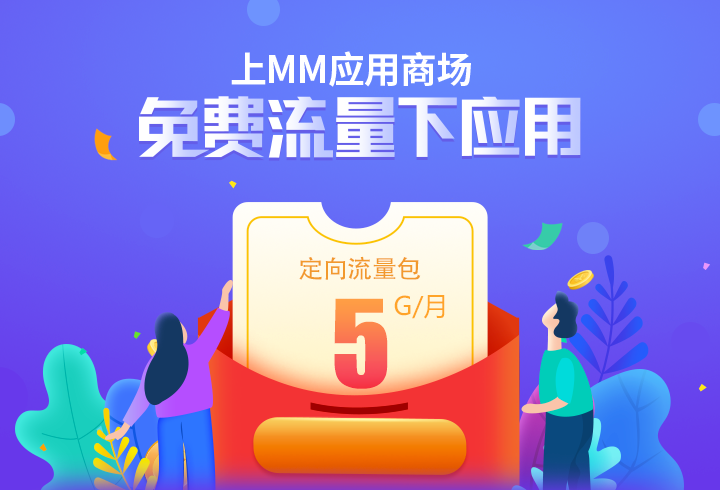
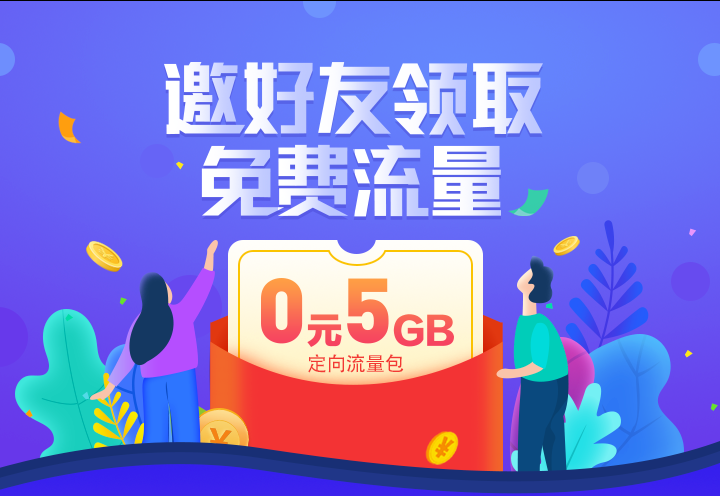
转盘占坑

diff --git a/src/share.html b/src/share.html
@@ -10,28 +10,22 @@
 
 	<body class="home-bg">
 		<div class="banner">
-			<img src="./assets/img/home-share-bg.png" class="banner">
-			<a class="lklq-btn share-page"></a>
+			<img src="./assets/img/home-bg.png" class="banner">
 		</div>
+		<div class="zp-wrap">
+			<div class="line-text-bg"></div>
+		<div class="inner-wrap"></div>
+	</div>
 		<div class="main-settion">
-			<div class="card-pannel share-page">
-				<div class="mian-liu share-page">
-					<img src="./assets/img/mm-app.png" alt="">
-					<div>MM应用商场</div>
-				</div>
-				<div class="share-wrap">
-					<div class="share-btn share-page">
-						
-					</div>
-					<div class="text">
-						定向流量包详细适用范围见下方活动规则
-					</div>
+			<div class="card-pannel">
+			<div class="header">
+				<div class="icon-text">
+					<img src="./assets/img/liping-huizhang-icon.png" alt="" class="huizhang">
+					<span class="info">分享活动兑换奖品</span>
 				</div>
 			</div>
-			<div class="share-friened">
-				<div class="header">
-					<div class="title">邀好友领免流量包获大奖</div>
-				</div>
+			<div class="my-content">
+				<div class="share-friened">
 				<div class="share-item-box">
 					<div class="share-item">
 						<img class="app-icon" src="./assets/img/youku-icon.png">
@@ -47,61 +41,13 @@
 					</div>
 				</div>
 			</div>
+			</div>		
+		
+		
+			
 		</div>
-		<div class="share-rule-wrap">
-			<div class="setion">
-				<div class="title"><span class="text">活动说明</span></div>
-				<div class="content">
-					1、活动时间：即日起-2019年6月30日
-					<br />
-					<br /> 2、活动对象：中国移动安卓手机MM应用商城受邀目标用户
-					<br />
-					<br /> 3、免流业务覆盖区域全国各省用户均可领取（港澳台除外） 
-					<br />
-					<br /> 4、活动说明：
-					<br /> （1）用户在活动页面完成领取MM定向流量包后，每月最高可节省5GB流量，使用定向流量时请保证订购产品手机号码与本机手机号码一致。 
-					<br />（2）本次活动流量包为MM任我装0元5GB定向流量包，资费优惠为0元5GB/月，活动期内每个用户仅可订购一次。产品订购当月立即生效，次月自动续订，有效期为6个月，6个月到期后自动失效。订购当月不足一周期按一周期算。产品流量不结转、不能共享、不能转赠。 
-					<br />（3）每位用户仅可参加一次本优惠活动；退订后无法再参加此活动。 
-					<br />
-					<br /> 5、 MM任我装定向流量包开通成功请以短信通知为准。
-					<br />
-					<br /> 6、账单展示规则与其他定向流量包产品一致，详情请查看当地中国移动网上营业厅。
-					<br /> 7、本页面下载的MM客户端不在免流范围内，需要消耗用户流量，请用户注意流量消耗情况。
-
-				</div>
-
+		<div class="do-active">马上参加</div>
 			</div>
-
-			<div class="setion">
-				<div class="title"><span class="text">免流范围</span></div>
-				<div class="content">
-					1、MM任我装流量包适用范围：
-					<br /> 飞闻客户端、MM导航、MM应用商场客户端、移动精选客户端, 扫码助手等。使用上述产品时，应用游戏可免流量下载，部分资讯、视频以及美图可省流量观看。
-					<br /><br />2、 针对上述APP或网站，任我装流量包不可用范围说明如下：
-					<br />1) 在无线上网卡、移动WIFI、MIFI、CPE、平板电脑（如iPad）等非手机设备使用；手机号码作为手机热点使用；使用CMWAP接入点方式，访问APP所产生的流量。
-					<br /><br />2) MM应用商场客户端除下载以外的行为，如其他未参加省流活动的第三方提供的资讯、视频、小说、音乐，广告，第三方网站，京东、淘宝等购物网站等。在使用过程中请以页面提示“免流中”为准，如页面未提醒则不在免流范围。
-					<br /><br />3) 飞闻客户端内未参与免流活动的第三方提供的资讯、视频、小说、广告等。
-					<br /><br />4) 网址导航网站通过搜索打开的网页内容，未参与免流活动的第三方提供的资讯、视频、小说、广告、音乐，第三方网站，京东、淘宝等购物网站等。 注：如已订购定向流量包，在移动数据网络条件下使用飞闻客户端和网址导航网站时省流资讯、视频和美图可看到省流提示（以当前页面提示为准）。
-					<br /><br />5) 移动精选客户端及扫码助手站点内第三方提供的广告、网页链接方式访问音视频内容产生的流量以及跳转至第三方网站或应用内容，如广告、支付宝微信支付，定位功能，微信登录等服务功能。资讯看点频道用户请以页面提示“免流中”或“省流量”为准，如页面未提醒则不在免流范围。
-
-				</div>
-
-			</div>
-			<div class="setion">
-				<div class="title"><span class="text">业务说明</span></div>
-				<div class="content">
-					1、本活动中订购用户每月节省流量最高额度为5G，额度用完后，数据流量依照现网套餐资费规则执行。 
-					<br /><br />2、订购用户使用MM系列产品时，共用流量包流量。 
-					<br /><br />3、MM定向流量包支持订购与退订。流量包订购立即生效，变更次月生效，退订次月生效；办理当日费用（0元）一次性全额收取、流量全额提供；次月起，如未退订产品订购关系仍然生效。 
-					<br /><br />4、对于同一类型定向流量包，同一时间，用户订购关系中只能生效基础产品、“0元包”中的一种。若用户已订购生效基础产品，再参加对应 “0元包”活动，基础产品次月失效，“0元包”活动次月生效。 
-					<br /><br />5、万能副卡无法领取该定向流量包。 
-					<br /><br />6、对于本次活动，若用户成功领取免流包，但在活动期内或公告的发放期内未能成功开通该服务，请在活动结束后或发放期到期后的7个工作日内致电10086反馈情况，逾期未反馈者视为自动弃奖，不予重新开通。 
-					<br /><br />7、了解业务规则或退订规则，请详询10086客服热线。 
-					<br /><br />8、活动内容如有调整或补充，请以活动最新公告为准。 
-					<br /><br />9、免责声明：如因网络攻击、系统故障或其它不可控因素导致活动出错或对活动进行调整或停止的，将在活动规则页面及时告知，MM系列产品无须为此承担赔偿责任和给予补偿。中国移动应用商场可以视活动情况对活动规则调整或改动，并公布于此，即时生效。 
-				</div>
-			</div>
-		</div>
 	</body>
 
 </html>

diff --git a/src/assets/styles/index.less b/src/assets/styles/index.less
@@ -45,7 +45,7 @@
   visibility: hidden;
 }
 .home-bg{
-  background-color: #6289f8;
+  background-color: #3e31e9;
 }
 .banner{
   position: relative;
@@ -63,15 +63,21 @@
   }
   img.banner{
     display: inline-block;
-    height: 5.53rem;
+    height: 4.96rem;
     width: 100%;
   }
   .lklq-btn{
     position: absolute;
     left: 50%;
-    bottom: .25rem;
+    width:2.21rem;
+    height: .65rem;
+    bottom: .36rem;
+     background: url(../img/lklq-btn.png)no-repeat;
+      background-size: 100% 100%;
     transform: translate3d(-50%,0,0);
     font-size: .24rem;
+    text-align: center;
+    line-height: .65rem;
     color:#fff;
     &.share-page{
       bottom: -0.205rem;
@@ -101,9 +107,26 @@
     top:.8rem;
   }
 }
+.zp-wrap{
+    background: url(../img/zp-decorate.png)no-repeat;
+      background-size: 100% 100%;
+    height: 7.4rem;
+    .line-text-bg{
+        position: absolute;
+        z-index: 9;
+        left: 50%;
+        transform: translateX(-50%);
+      background: url(../img/line-text-bg.png)no-repeat;
+      background-size: 100% 100%;
+      width: 3.67rem;
+      height: .73rem;
+    }
+}
 .main-settion{
+    margin-bottom: .5rem;
+     padding:0 .2rem;
   .card-pannel{
-    padding:0 .2rem;
+   
   }
 }
 
@@ -387,7 +410,6 @@
 .share-friened{
   text-align: center;
   padding-bottom: .8rem;
-  background-color: #6741e6;
   .header{
     display: inline-block;
     width: 4.38rem;
@@ -427,6 +449,20 @@
       }
   }
 }
+}
+.do-active{
+   top: .1rem;
+    position:relative;
+    left: 50%;
+    transform: translateX(-50%);
+    font-size: .36rem;
+    color:#fff;
+    line-height: .88rem;
+    text-align: center;
+     width: 5.47rem;
+    height: .88rem;
+     background: url(../img/share-btn.png)no-repeat;
+     background-size: 100% 100%;
 }
 .app-list-wrap{
   .icon-item{

diff --git a/src/index.html b/src/index.html
@@ -26,6 +26,9 @@
 		<img src="./assets/img/home-bg.png" class="banner">
 		<span class="lklq-btn">立即领取</span>
 	</div>
+	<div class="zp-wrap">
+		<div class="inner-wrap"></div>
+	</div>
 	<div class="main-settion">
 		<div class="card-pannel">
 			<div class="header">
